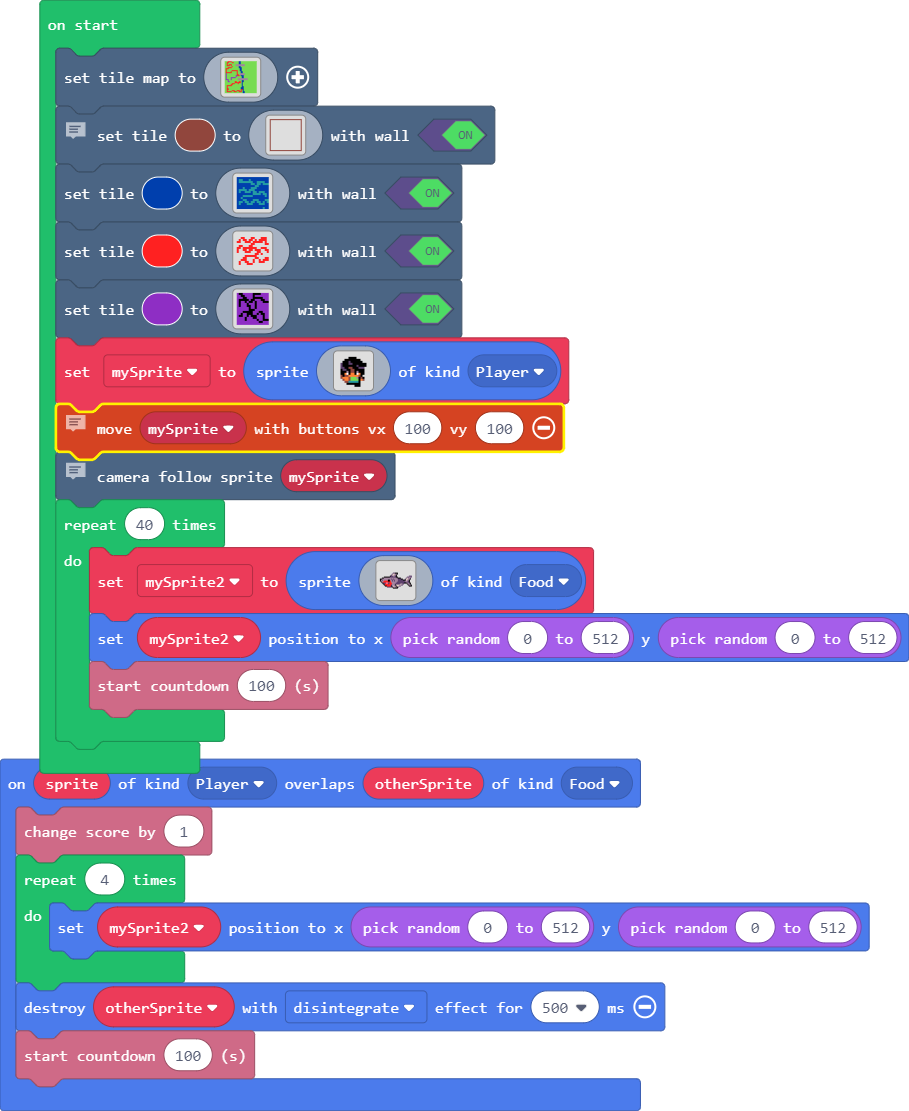
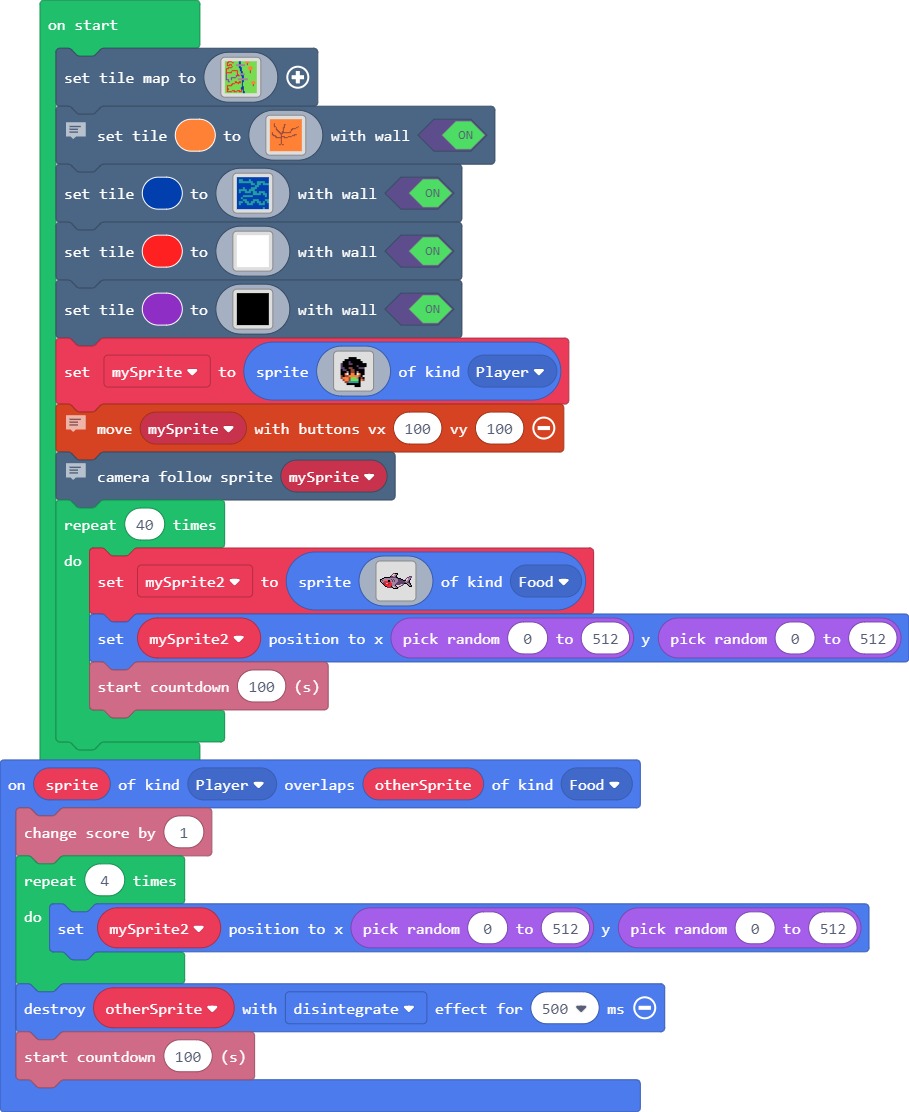
commit maze game

diff --git a/main.ts b/main.ts
@@ -8,18 +8,18 @@ sprites.onOverlap(SpriteKind.Player, SpriteKind.Food, function (sprite, otherSpr
 })
 let mySprite2: Sprite = null
 scene.setTileMap(img`
-7 7 7 2 2 2 2 7 7 7 7 7 7 7 8 8 7 7 7 7 7 7 7 7 7 7 7 7 7 7 7 7 
-7 7 2 2 7 7 7 2 2 7 7 7 7 7 8 8 7 7 7 7 7 7 7 7 7 7 7 7 7 7 7 7 
-7 7 2 7 7 7 7 7 7 7 7 7 7 7 8 8 7 7 7 7 7 7 7 7 7 7 7 7 7 7 7 7 
-7 7 2 7 2 2 2 7 7 7 7 b b b b b b b b b 7 7 7 7 7 7 7 7 7 7 7 7 
+7 7 7 2 2 2 2 7 7 7 7 7 7 7 8 8 7 7 7 7 7 4 4 4 7 7 7 7 7 7 7 7 
+7 7 2 2 7 7 7 2 2 7 7 7 7 7 8 8 7 7 7 7 4 4 4 4 4 7 7 7 7 7 7 7 
+7 7 2 7 7 7 7 7 7 7 7 7 7 7 8 8 7 7 7 7 7 7 e 7 7 7 7 7 7 7 7 7 
+7 7 2 7 2 2 2 7 7 7 7 b b b b b b b b b 7 7 e 7 7 7 7 7 7 7 7 7 
 7 7 2 2 2 7 2 7 7 7 7 b b b b b b b b b 7 7 7 7 7 7 7 7 7 7 7 7 
-7 7 7 7 7 7 7 2 7 7 7 7 7 7 8 8 7 7 7 7 7 7 7 7 7 7 7 7 7 7 7 7 
-7 7 7 2 2 2 2 7 7 7 7 7 7 7 8 8 8 7 7 7 7 7 7 7 7 7 7 7 7 7 7 7 
-7 2 2 2 7 7 7 7 7 7 7 7 7 7 7 8 8 7 7 7 7 7 7 7 7 7 7 7 7 7 7 7 
-7 2 7 7 7 7 7 7 7 7 7 7 7 7 7 8 8 7 7 7 7 7 7 7 7 7 7 7 7 7 7 7 
-7 2 7 7 7 7 7 2 2 2 2 2 2 7 7 8 8 7 7 7 7 7 7 7 7 7 7 7 7 7 7 7 
-7 2 7 7 7 7 2 7 7 7 7 7 2 7 7 7 8 8 7 7 7 7 7 7 7 7 7 7 7 7 7 7 
-7 2 2 2 2 2 2 7 7 7 7 7 2 7 7 7 8 8 7 7 7 7 7 7 7 7 7 7 7 7 7 7 
+7 7 7 7 7 7 7 2 7 7 7 7 7 7 8 8 7 7 7 7 7 7 7 7 4 4 4 7 7 7 7 7 
+7 7 7 2 2 2 2 7 7 7 7 7 7 7 8 8 8 7 7 7 7 7 7 4 4 4 4 4 7 7 7 7 
+7 2 2 2 7 7 7 7 7 7 7 7 7 7 7 8 8 7 7 7 7 7 7 4 4 4 4 4 7 7 7 7 
+7 2 7 7 7 7 7 7 7 7 7 7 7 7 7 8 8 7 7 7 7 7 7 7 4 4 4 7 7 7 7 7 
+7 2 7 7 7 7 7 2 2 2 2 2 2 7 7 8 8 7 7 7 7 7 7 7 7 e 7 7 7 7 7 7 
+7 2 7 7 7 7 2 7 7 7 7 7 2 7 7 7 8 8 7 7 7 7 7 7 7 e 7 7 7 7 7 7 
+7 2 2 2 2 2 2 7 7 7 7 7 2 7 7 7 8 8 7 7 7 7 7 7 7 e 7 7 7 7 7 7 
 7 a 7 7 7 7 7 7 7 7 7 7 2 7 7 b b b b b 7 7 7 7 7 7 7 7 7 7 7 7 
 7 a 7 7 7 7 7 7 7 7 7 7 2 2 7 b b b b b 7 7 7 7 7 7 7 7 7 7 7 7 
 7 a 7 7 7 7 7 7 7 7 7 a a 2 2 7 8 8 8 7 7 7 7 7 7 7 7 7 7 7 7 7 
@@ -28,11 +28,11 @@ scene.setTileMap(img`
 7 a 7 7 7 7 a 7 7 7 7 7 7 b b b b b b b b b b 7 7 7 7 7 7 7 7 7 
 7 a a a 7 7 a 7 7 7 7 7 7 b b b b b b b b b b 7 7 7 7 7 7 7 7 7 
 7 7 7 a 7 7 7 7 7 7 7 7 7 7 7 7 7 8 8 7 7 7 7 7 7 7 7 7 7 7 7 7 
-7 7 7 a a 7 7 7 7 7 2 2 7 7 2 2 7 8 8 7 7 7 7 7 7 7 7 7 7 7 7 7 
-7 7 7 7 7 7 7 7 7 7 2 2 2 2 2 2 7 8 7 7 7 7 7 7 7 7 7 7 7 7 7 7 
-7 7 7 7 7 7 7 2 2 2 7 7 7 2 7 7 7 8 7 7 7 7 7 7 7 7 7 7 7 7 7 7 
-7 7 7 7 7 7 2 2 7 7 7 7 7 7 7 7 7 8 7 7 7 7 7 7 7 7 7 7 7 7 7 7 
-7 7 2 2 2 2 2 7 7 7 7 7 7 7 7 7 7 8 7 7 7 7 7 7 7 7 7 7 7 7 7 7 
+7 7 7 a a 7 7 7 7 7 2 2 7 7 2 2 7 8 8 7 7 7 7 7 7 7 7 4 4 4 7 7 
+7 7 7 7 7 7 7 7 7 7 2 2 2 2 2 2 7 8 7 7 7 7 7 7 7 7 4 4 4 4 4 7 
+7 7 7 7 7 7 7 2 2 2 7 7 7 2 7 7 7 8 7 7 7 7 7 7 7 7 7 4 4 4 7 7 
+7 7 7 7 7 7 2 2 7 7 7 7 7 7 7 7 7 8 7 7 7 7 7 7 7 7 7 7 e 7 7 7 
+7 7 2 2 2 2 2 7 7 7 7 7 7 7 7 7 7 8 7 7 7 7 7 7 7 7 7 7 e 7 7 7 
 7 7 2 7 7 7 7 7 7 7 7 7 7 7 7 7 7 8 8 7 7 7 7 7 7 7 7 7 7 7 7 7 
 7 7 2 7 7 7 7 7 7 7 7 7 7 7 7 7 8 8 8 7 7 7 7 7 7 7 7 7 7 7 7 7 
 7 7 2 2 7 7 7 7 7 7 7 7 7 7 7 7 8 8 8 7 7 7 7 7 7 7 7 7 7 7 7 7 
@@ -43,39 +43,39 @@ scene.setTileMap(img`
 `)
 // when turned on player cannot move passed this color
 // and there is a texture to add to the brown
-scene.setTile(14, img`
-e e e e e e e e e e e e e e e e e e e e e e e e e e e e e e e e 
-e . . . . . . . . . . . . . . . . . . . . . . . . . . . . . . e 
-e . . . . . . . . . . . . . . . . . . . . . . . . . . . . . . e 
-e . . . . . . . . . . . . . . . . . . . . . . . . . . . . . . e 
-e . . . . . . . . . . . . . . . . . . . . . . . . . . . . . . e 
-e . . . . . . . . . . . . . . . . . . . . . . . . . . . . . . e 
-e . . . . . . . . . . . . . . . . . . . . . . . . . . . . . . e 
-e . . . . . . . . . . . . . . . . . . . . . . . . . . . . . . e 
-e . . . . . . . . . . . . . . . . . . . . . . . . . . . . . . e 
-e . . . . . . . . . . . . . . . . . . . . . . . . . . . . . . e 
-e . . . . . . . . . . . . . . . . . . . . . . . . . . . . . . e 
-e . . . . . . . . . . . . . . . . . . . . . . . . . . . . . . e 
-e . . . . . . . . . . . . . . . . . . . . . . . . . . . . . . e 
-e . . . . . . . . . . . . . . . . . . . . . . . . . . . . . . e 
-e . . . . . . . . . . . . . . . . . . . . . . . . . . . . . . e 
-e . . . . . . . . . . . . . . . . . . . . . . . . . . . . . . e 
-e . . . . . . . . . . . . . . . . . . . . . . . . . . . . . . e 
-e . . . . . . . . . . . . . . . . . . . . . . . . . . . . . . e 
-e . . . . . . . . . . . . . . . . . . . . . . . . . . . . . . e 
-e . . . . . . . . . . . . . . . . . . . . . . . . . . . . . . e 
-e . . . . . . . . . . . . . . . . . . . . . . . . . . . . . . e 
-e . . . . . . . . . . . . . . . . . . . . . . . . . . . . . . e 
-e . . . . . . . . . . . . . . . . . . . . . . . . . . . . . . e 
-e . . . . . . . . . . . . . . . . . . . . . . . . . . . . . . e 
-e . . . . . . . . . . . . . . . . . . . . . . . . . . . . . . e 
-e . . . . . . . . . . . . . . . . . . . . . . . . . . . . . . e 
-e . . . . . . . . . . . . . . . . . . . . . . . . . . . . . . e 
-e . . . . . . . . . . . . . . . . . . . . . . . . . . . . . . e 
-e . . . . . . . . . . . . . . . . . . . . . . . . . . . . . . e 
-e . . . . . . . . . . . . . . . . . . . . . . . . . . . . . . e 
-e . . . . . . . . . . . . . . . . . . . . . . . . . . . . . . e 
-e e e e e e e e e e e e e e e e e e e e e e e e e e e e e e e e 
+scene.setTile(4, img`
+4 4 4 4 4 4 4 4 4 4 4 4 4 4 4 4 4 4 4 4 4 4 4 4 4 4 4 4 4 4 4 4 
+4 4 4 4 4 4 4 4 4 4 4 4 4 4 4 4 4 4 4 4 4 4 4 4 4 4 4 4 4 4 4 4 
+4 4 4 4 4 4 4 4 4 4 4 4 4 4 4 4 4 4 4 4 4 4 4 4 4 4 4 4 4 4 4 4 
+4 4 4 4 4 4 4 4 4 4 4 4 4 4 4 4 4 4 4 4 4 4 4 4 4 4 4 4 4 4 4 4 
+4 4 4 4 e 4 4 4 4 4 4 4 4 4 4 4 4 4 4 4 4 4 4 4 4 4 4 4 4 4 4 4 
+4 4 4 4 e 4 4 4 4 4 4 4 4 4 e e 4 4 4 4 4 4 4 4 4 4 4 4 4 4 4 4 
+4 4 4 4 e 4 4 4 4 4 4 4 4 4 e 4 4 4 4 4 4 4 4 4 4 4 4 4 4 4 4 4 
+4 4 4 4 e e 4 4 4 4 4 4 4 4 e 4 4 4 4 4 4 4 4 4 4 4 4 4 e 4 4 4 
+4 4 4 4 4 4 e 4 4 4 4 4 4 e e 4 4 4 4 4 4 4 4 4 4 4 e e 4 4 4 4 
+4 4 4 4 4 4 e 4 4 4 4 4 4 e 4 4 4 4 4 4 4 4 e e e e 4 4 4 4 4 4 
+4 4 4 4 4 4 e e 4 4 4 4 4 e 4 4 4 4 4 4 4 e e 4 4 4 4 4 4 4 4 4 
+4 4 4 4 4 4 4 e e 4 4 4 4 e 4 4 4 4 4 4 4 e 4 4 4 4 4 4 4 4 4 4 
+4 4 4 4 4 4 4 4 e e 4 4 e e 4 4 4 4 4 4 e 4 4 4 4 4 4 4 4 4 4 4 
+4 4 e 4 4 4 4 4 4 e e 4 e e e e e e e e e 4 4 4 4 4 4 4 4 4 4 4 
+4 4 e 4 4 4 4 4 4 4 e e e 4 4 4 4 4 4 4 4 4 4 4 4 4 4 4 4 4 4 4 
+4 4 e e 4 4 4 4 4 4 4 e 4 4 4 4 4 4 4 4 4 4 4 4 e e e 4 4 4 4 4 
+4 4 4 e e e 4 4 4 4 4 e 4 4 4 4 4 4 4 4 4 4 e e e 4 4 4 4 4 4 4 
+4 4 4 4 4 e e 4 4 4 4 e e e e 4 4 4 e e e e 4 4 4 4 4 4 4 4 4 4 
+4 4 4 4 4 4 e e e e e e 4 4 e e e e 4 4 4 4 4 4 4 4 4 4 4 4 4 4 
+4 4 4 4 4 4 4 4 4 4 4 e 4 4 4 4 4 4 4 4 4 4 4 4 4 4 4 4 4 4 4 4 
+4 4 4 4 4 4 4 4 4 4 4 e 4 4 4 4 4 4 4 4 4 4 4 4 4 4 4 4 4 4 4 4 
+4 4 4 4 4 4 4 4 4 4 4 e 4 4 4 4 4 4 4 4 4 4 4 4 4 4 4 4 4 4 4 4 
+4 4 4 4 4 4 4 4 4 4 4 e 4 4 4 4 4 4 4 4 4 4 4 4 4 4 4 4 4 4 4 4 
+4 4 4 4 4 4 4 4 4 4 4 e 4 4 4 4 4 4 4 4 4 4 4 4 4 4 4 4 4 4 4 4 
+4 4 4 4 4 4 4 4 4 4 4 e 4 4 4 4 4 4 4 4 4 4 4 4 4 4 4 4 4 4 4 4 
+4 4 4 4 4 4 4 4 4 e e 4 e e 4 4 4 4 4 4 4 4 4 4 4 4 4 4 4 4 4 4 
+4 4 4 4 4 4 4 4 4 4 4 4 4 4 4 4 4 4 4 4 4 4 4 4 4 4 4 4 4 4 4 4 
+4 4 4 4 4 4 4 4 4 4 4 4 4 4 4 4 4 4 4 4 4 4 4 4 4 4 4 4 4 4 4 4 
+4 4 4 4 4 4 4 4 4 4 4 4 4 4 4 4 4 4 4 4 4 4 4 4 4 4 4 4 4 4 4 4 
+4 4 4 4 4 4 4 4 4 4 4 4 4 4 4 4 4 4 4 4 4 4 4 4 4 4 4 4 4 4 4 4 
+4 4 4 4 4 4 4 4 4 4 4 4 4 4 4 4 4 4 4 4 4 4 4 4 4 4 4 4 4 4 4 4 
+4 4 4 4 4 4 4 4 4 4 4 4 4 4 4 4 4 4 4 4 4 4 4 4 4 4 4 4 4 4 4 4 
 `, true)
 scene.setTile(8, img`
 8 8 8 8 8 8 8 8 8 8 8 8 8 8 8 8 
@@ -96,40 +96,40 @@ scene.setTile(8, img`
 8 8 8 8 8 8 8 8 8 8 8 8 8 6 8 8 
 `, true)
 scene.setTile(2, img`
-. . . . . . . . . . . . . . . . 
-. . 2 2 . . . 2 2 . . . 2 2 2 . 
-. 2 . 2 2 . 2 2 . 2 . 2 2 2 2 . 
-2 2 . . 2 2 2 . 2 2 2 2 2 . 2 . 
-. . . . . . . 2 2 . . . . . 2 2 
-. 2 2 . . . 2 2 . . . . . . . . 
-2 2 . 2 2 2 2 2 2 2 . . 2 2 2 . 
-2 . . 2 2 . 2 2 . 2 2 2 . . 2 2 
-2 . . . 2 2 2 . . . 2 2 . . . 2 
-. . . . . . . . . 2 2 . 2 . . . 
-. . . . 2 2 2 2 2 2 . . . . . . 
-. . . 2 2 . . . . 2 2 . . . 2 2 
-. . 2 2 2 . . . 2 . . 2 . 2 2 2 
-. 2 . . 2 2 . . 2 . . 2 2 2 . . 
-. 2 . . . 2 2 2 . . . . . . . . 
-. . . . . . . . . . . . . . . . 
+1 1 1 1 1 1 1 1 1 1 1 1 1 1 1 1 
+1 1 1 1 1 1 1 1 1 1 1 1 1 1 1 1 
+1 1 1 1 1 1 1 1 1 1 1 1 1 1 1 1 
+1 1 1 1 1 1 1 1 1 1 1 1 1 1 1 1 
+1 1 1 1 1 1 1 1 1 1 1 1 1 1 1 1 
+1 1 1 1 1 1 1 1 1 1 1 1 1 1 1 1 
+1 1 1 1 1 1 1 1 1 1 1 1 1 1 1 1 
+1 1 1 1 1 1 1 1 1 1 1 1 1 1 1 1 
+1 1 1 1 1 1 1 1 1 1 1 1 1 1 1 1 
+1 1 1 1 1 1 1 1 1 1 1 1 1 1 1 1 
+1 1 1 1 1 1 1 1 1 1 1 1 1 1 1 1 
+1 1 1 1 1 1 1 1 1 1 1 1 1 1 1 1 
+1 1 1 1 1 1 1 1 1 1 1 1 1 1 1 1 
+1 1 1 1 1 1 1 1 1 1 1 1 1 1 1 1 
+1 1 1 1 1 1 1 1 1 1 1 1 1 1 1 1 
+1 1 1 1 1 1 1 1 1 1 1 1 1 1 1 1 
 `, true)
 scene.setTile(10, img`
-a f f a a a a a f f f f a a a a 
-a a f f a a a a f a a a a a a a 
-a a a f f a a a f f f f f a a a 
-a f f f f f a f f a a a f f a a 
-a f a a f a f f a f a a a f f f 
-a f a a a f a a a f a a a a a a 
-a f a a a f f a a f a a a a a a 
-a a a a a a f a a f a a a a a a 
-a a a a a a f f f a a a a a a a 
-a a a f f f f f a a a f f a a a 
-a a f a a f f f a a f a f f a a 
-a f f a a f a f f f a a a f a a 
-a a a a f a a a f f a a a f a a 
-a a a a f a a a a a f a a f f f 
-a a a a a a a a a a a f f a a a 
-a a a a a a a a a a a a a a a a 
+f f f f f f f f f f f f f f f f 
+f f f f f f f f f f f f f f f f 
+f f f f f f f f f f f f f f f f 
+f f f f f f f f f f f f f f f f 
+f f f f f f f f f f f f f f f f 
+f f f f f f f f f f f f f f f f 
+f f f f f f f f f f f f f f f f 
+f f f f f f f f f f f f f f f f 
+f f f f f f f f f f f f f f f f 
+f f f f f f f f f f f f f f f f 
+f f f f f f f f f f f f f f f f 
+f f f f f f f f f f f f f f f f 
+f f f f f f f f f f f f f f f f 
+f f f f f f f f f f f f f f f f 
+f f f f f f f f f f f f f f f f 
+f f f f f f f f f f f f f f f f 
 `, true)
 let mySprite = sprites.create(img`
 . . . . . . . . . . . . . 
